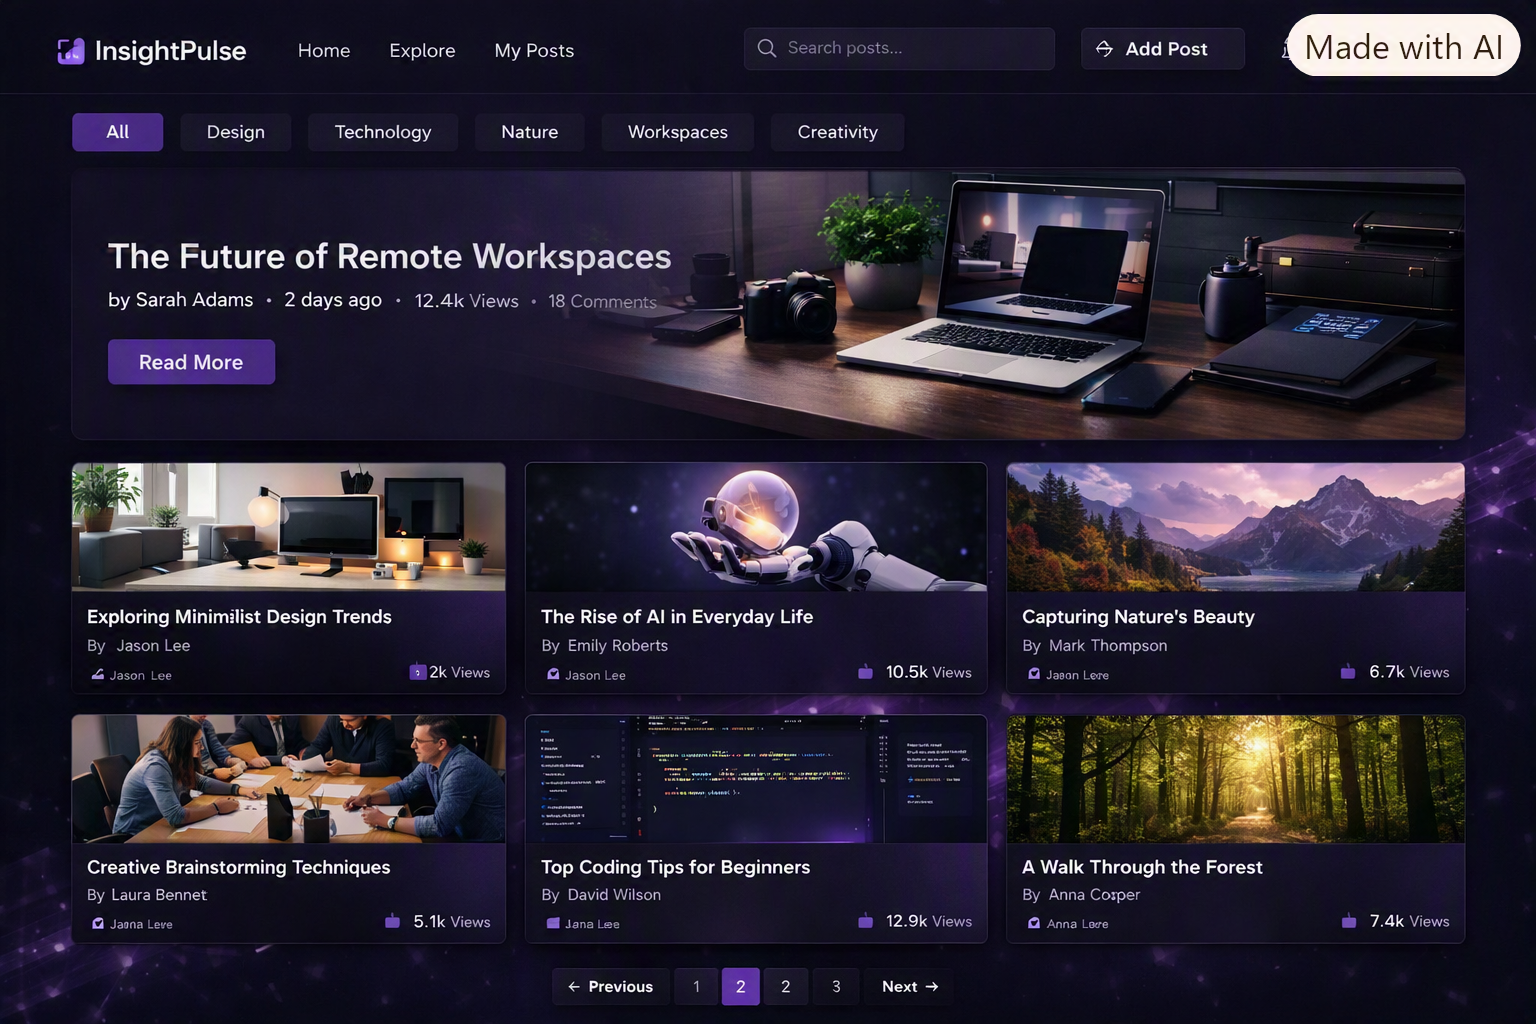
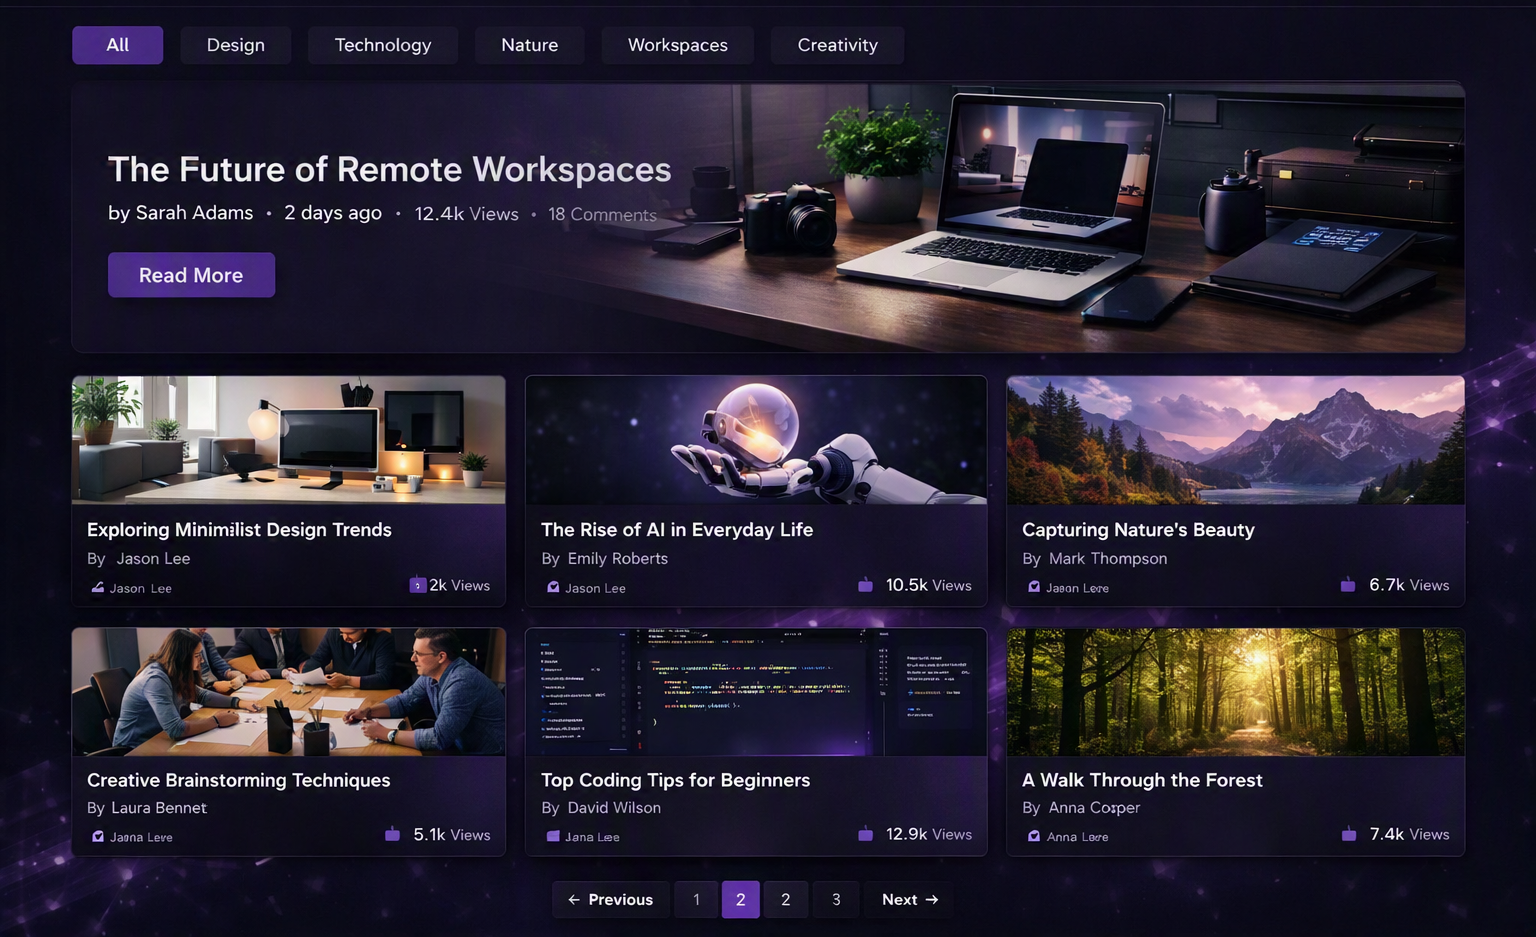
contact section

diff --git a/src/components/Contact.jsx b/src/components/Contact.jsx
@@ -1,5 +1,200 @@
+import { useState } from "react";
+const initial = { name: "", email: "", message: "" };
 function Contact() {
-  return <div></div>;
+  const [form, setForm] = useState(initial);
+  const [errors, setErrors] = useState({});
+  const [status, setStatus] = useState("idle"); // idle | sending | sent | error
+  const handleChange = (e) => {
+    const { name, value } = e.target;
+    setForm((prev) => ({ ...prev, [name]: value }));
+  };
+  const validate = () => {
+    const newErrors = {};
+    if (!form.name.trim()) newErrors.name = "Please enter your name";
+    if (!/^[^\s@]+@[^\s@]+\.[^\s@]+$/.test(form.email))
+      newErrors.email = "Enter a valid email";
+    if (form.message.trim().length < 10)
+      newErrors.message = "Message is a bit short";
+    return newErrors;
+  };
+  const handleSubmit = async (e) => {
+    e.preventDefault();
+
+    const foundErrors = validate();
+    if (Object.keys(foundErrors).length > 0) {
+      setErrors(foundErrors);
+      return;
+    }
+
+    setErrors({});
+    setStatus("sending");
+
+    try {
+      const res = await fetch("/api/contact", {
+        method: "POST",
+        headers: { "Content-Type": "application/json" },
+        body: JSON.stringify(form),
+      });
+
+      if (!res.ok) throw new Error("Request failed");
+
+      setForm(initial);
+      setStatus("sent");
+    } catch (err) {
+      console.error(err);
+      setStatus("error");
+    }
+  };
+  return (
+    <div
+      className="w-full max-w-7xl mx-auto px-6 sm:px-10 lg:px-16 flex flex-col lg:flex-row gap-10 lg:gap-6 mb-10 lg:items-center lg:justify-between"
+      id="contact"
+    >
+      {/* Left column */}
+      <div className="w-full lg:flex-1">
+        <h1 className="text-4xl sm:text-5xl lg:text-7xl text-Primary font-extrabold leading-tight">
+          Let's build something meaningful.
+        </h1>
+        <p className="w-full max-w-xl my-4 text-sm sm:text-base text-white">
+          Whether you have a project in mind, need technical consultation, or
+          simply want to connect, I'm always open to discussing new
+          opportunities and creative ideas.
+        </p>
+
+        <div>
+          <a href="mailto:habebaahmed101@gmail.com">
+            <p className="flex gap-3 items-center my-2 text-white hover:text-Secondary">
+              <svg
+                xmlns="http://www.w3.org/2000/svg"
+                fill="none"
+                viewBox="0 0 24 24"
+                strokeWidth={1.5}
+                stroke="currentColor"
+                className="shrink-0 bg-gray-1000 text-Primary w-11 h-11 p-2 rounded-full hover:bg-Primary hover:text-Primary-1 hover:cursor-pointer"
+              >
+                <path
+                  strokeLinecap="round"
+                  strokeLinejoin="round"
+                  d="M21.75 6.75v10.5a2.25 2.25 0 0 1-2.25 2.25h-15a2.25 2.25 0 0 1-2.25-2.25V6.75m19.5 0A2.25 2.25 0 0 0 19.5 4.5h-15a2.25 2.25 0 0 0-2.25 2.25m19.5 0v.243a2.25 2.25 0 0 1-1.07 1.916l-7.5 4.615a2.25 2.25 0 0 1-2.36 0L3.32 8.91a2.25 2.25 0 0 1-1.07-1.916V6.75"
+                />
+              </svg>
+              <span className="text-sm sm:text-base break-all ">
+                habebaahmed101@gmail.com
+              </span>
+            </p>
+          </a>
+          <a href="https://www.linkedin.com/in/habeba-ahmed-elbaghdady/">
+            <p className="flex gap-3 items-center my-2 text-white hover:text-Secondary">
+              <svg
+                xmlns="http://www.w3.org/2000/svg"
+                width="24"
+                height="24"
+                viewBox="0 0 24 24"
+                fill="none"
+                stroke="currentColor"
+                strokeWidth="2"
+                strokeLinecap="round"
+                strokeLinejoin="round"
+                className="lucide lucide-link-2 shrink-0 bg-gray-1000 text-Primary w-11 h-11 p-2 rounded-full hover:bg-Primary hover:text-Primary-1 hover:cursor-pointer"
+              >
+                <path d="M9 17H7A5 5 0 0 1 7 7h2" />
+                <path d="M15 7h2a5 5 0 1 1 0 10h-2" />
+                <line x1="8" x2="16" y1="12" y2="12" />
+              </svg>
+              <span className="text-sm sm:text-base">LinkedIn Profile</span>
+            </p>
+          </a>
+
+          <a href="https://github.com/habeba101?tab=overview&from=2026-02-01&to=2026-02-18">
+            <p className="flex gap-3 items-center my-2 text-white hover:text-Secondary">
+              <svg
+                xmlns="http://www.w3.org/2000/svg"
+                fill="none"
+                viewBox="0 0 24 24"
+                strokeWidth={1.5}
+                stroke="currentColor"
+                className="shrink-0 bg-gray-1000 text-Primary w-11 h-11 p-2 rounded-full hover:bg-Primary hover:text-Primary-1 hover:cursor-pointer"
+              >
+                <path
+                  strokeLinecap="round"
+                  strokeLinejoin="round"
+                  d="M17.25 6.75 22.5 12l-5.25 5.25m-10.5 0L1.5 12l5.25-5.25m7.5-3-4.5 16.5"
+                />
+              </svg>
+              <span className="text-sm sm:text-base">GitHub Repository</span>
+            </p>
+          </a>
+        </div>
+      </div>
+
+      {/* Right column: form */}
+      <div className="w-full lg:flex-1 lg:max-w-xl">
+        <form onSubmit={handleSubmit}>
+          <fieldset className="fieldset bg-main-1 rounded-box w-full p-4">
+            <h1 className="text-2xl font-black my-2 text-white">
+              Send a Message
+            </h1>
+
+            <label className="label text-lg text-white">Name</label>
+            <input
+              type="text"
+              name="name"
+              value={form.name}
+              onChange={handleChange}
+              className="input w-full bg-white text-black"
+              placeholder="John Doe"
+            />
+            {errors.name && (
+              <p className="text-red-400 text-sm mt-1">{errors.name}</p>
+            )}
+            <label className="label text-lg text-white">Email</label>
+            <input
+              name="email"
+              value={form.email}
+              onChange={handleChange}
+              type="email"
+              className="input w-full bg-white text-black"
+              placeholder="john@example.com"
+            />
+            {errors.email && (
+              <p className="text-red-400 text-sm mt-1">{errors.email}</p>
+            )}
+            <label className="label text-lg text-white">Message</label>
+            <textarea
+              name="message"
+              value={form.message}
+              onChange={handleChange}
+              rows={4}
+              className="textarea w-full bg-white text-black"
+              placeholder="How can we collaborate?"
+            />
+            {errors.message && (
+              <p className="text-red-400 text-sm mt-1">{errors.message}</p>
+            )}
+
+            <button
+              type="submit"
+              disabled={status === "sending"}
+              className="btn bg-Primary rounded-3xl mt-4 hover:bg-Secondary w-full sm:w-auto disabled:opacity-60"
+            >
+              {status === "sending" ? "Sending…" : "Send Message"}
+            </button>
+
+            {status === "sent" && (
+              <p className="text-green-400 text-sm mt-3">
+                Thanks! I'll get back to you soon.
+              </p>
+            )}
+            {status === "error" && (
+              <p className="text-red-400 text-sm mt-3">
+                Something went wrong. Please try again or email me directly.
+              </p>
+            )}
+          </fieldset>
+        </form>
+      </div>
+    </div>
+  );
 }
 
 export default Contact;

diff --git a/src/components/FeaturedWork.jsx b/src/components/FeaturedWork.jsx
@@ -29,7 +29,7 @@ function FeaturedWork() {
             </p>
             <a
               href="https://ajer-indol.vercel.app/"
-              className="btn  text-Primary-1 bg-Primary rounded-3xl  shadow-none border-0"
+              className="btn  text-Primary-1 bg-Primary rounded-3xl  shadow-none border-0 hover:bg-Secondary hover:text-Secondary-1"
             >
               Live
             </a>
@@ -53,7 +53,7 @@ function FeaturedWork() {
             </p>
             <a
               href="https://github.com/habeba101/InsightPulse-Blog-React"
-              className="btn text-Primary-1 bg-Primary rounded-3xl  shadow-none border-0"
+              className="btn text-Primary-1 bg-Primary rounded-3xl  shadow-none border-0  hover:bg-Secondary hover:text-Secondary-1"
             >
               GitHub
             </a>
@@ -77,7 +77,7 @@ function FeaturedWork() {
           </p>
           <a
             href="https://github.com/habeba101/Social-Agent-Gen-AI"
-            className="btn text-Primary-1 bg-Primary rounded-3xl  shadow-none border-0"
+            className="btn text-Primary-1 bg-Primary rounded-3xl  shadow-none border-0  hover:bg-Secondary hover:text-Secondary-1"
           >
             GitHub
           </a>

diff --git a/api/contact.js b/api/contact.js
@@ -1,0 +1,23 @@
+// api/contact.js
+import { Resend } from "resend";
+
+const resend = new Resend(process.env.RESEND_API_KEY);
+
+export default async function handler(req, res) {
+  if (req.method !== "POST") return res.status(405).end();
+
+  const { name, email, message } = req.body;
+
+  try {
+    await resend.emails.send({
+      from: "Portfolio <onboarding@resend.dev>",
+      to: process.env.CONTACT_EMAIL,
+      replyTo: email,
+      subject: `New message from ${name}`,
+      text: message,
+    });
+    res.status(200).json({ ok: true });
+  } catch (err) {
+    res.status(500).json({ error: "Failed to send" });
+  }
+}

diff --git a/src/components/Navbar.jsx b/src/components/Navbar.jsx
@@ -59,9 +59,12 @@ export default function Navbar() {
             </ul>
           </div>
           <div className="navbar-end">
-            <button className="btn btn-sm sm:btn-md mx-1 sm:mx-2 rounded-4xl text-Primary-1 bg-Primary-2 border-none whitespace-nowrap">
+            <a
+              href="#contact"
+              className="btn btn-sm sm:btn-md mx-1 sm:mx-2 rounded-4xl text-Primary-1 bg-Primary-2 border-none whitespace-nowrap"
+            >
               Contact
-            </button>
+            </a>
           </div>
         </div>
 

diff --git a/src/App.css b/src/App.css
@@ -34,5 +34,6 @@ button {
   --color-Secondary-1: #531a43;
   --color-tertiary: #e6c878;
   --color-Neutral: #7a757d;
+
   --color-gray-1000: #2c292f;
 }
